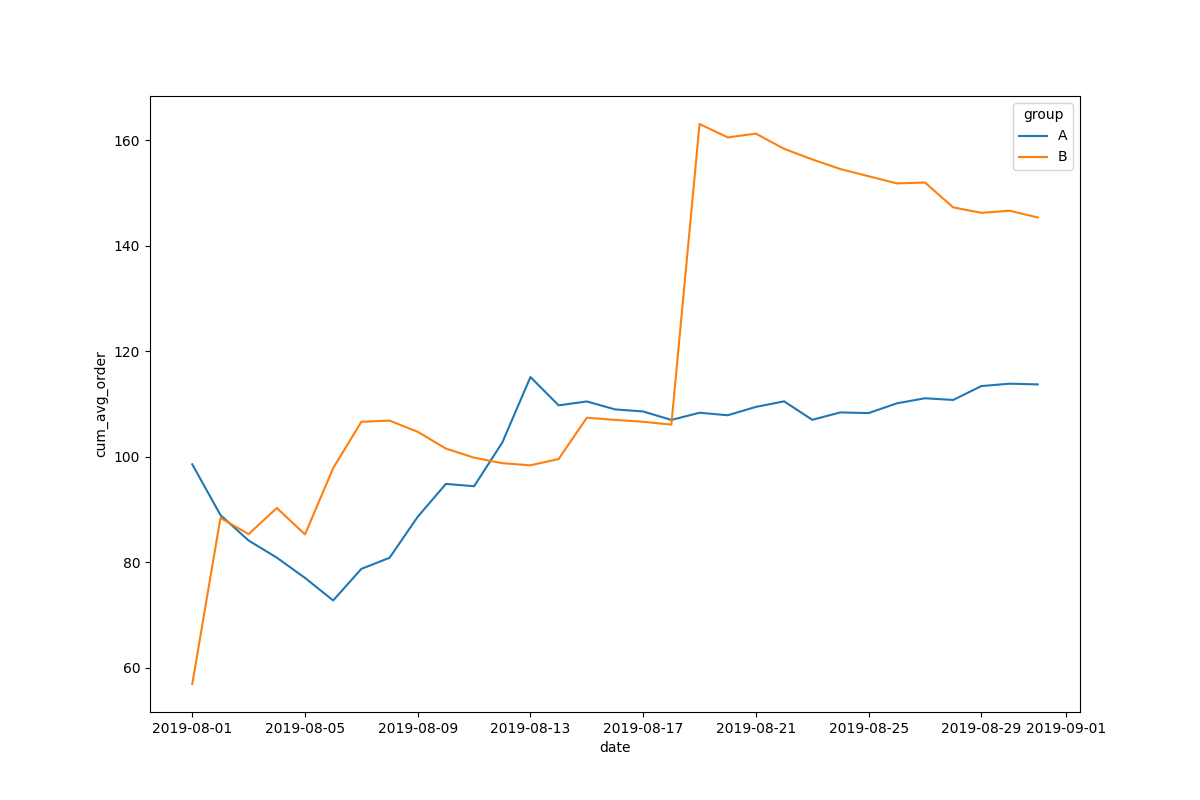
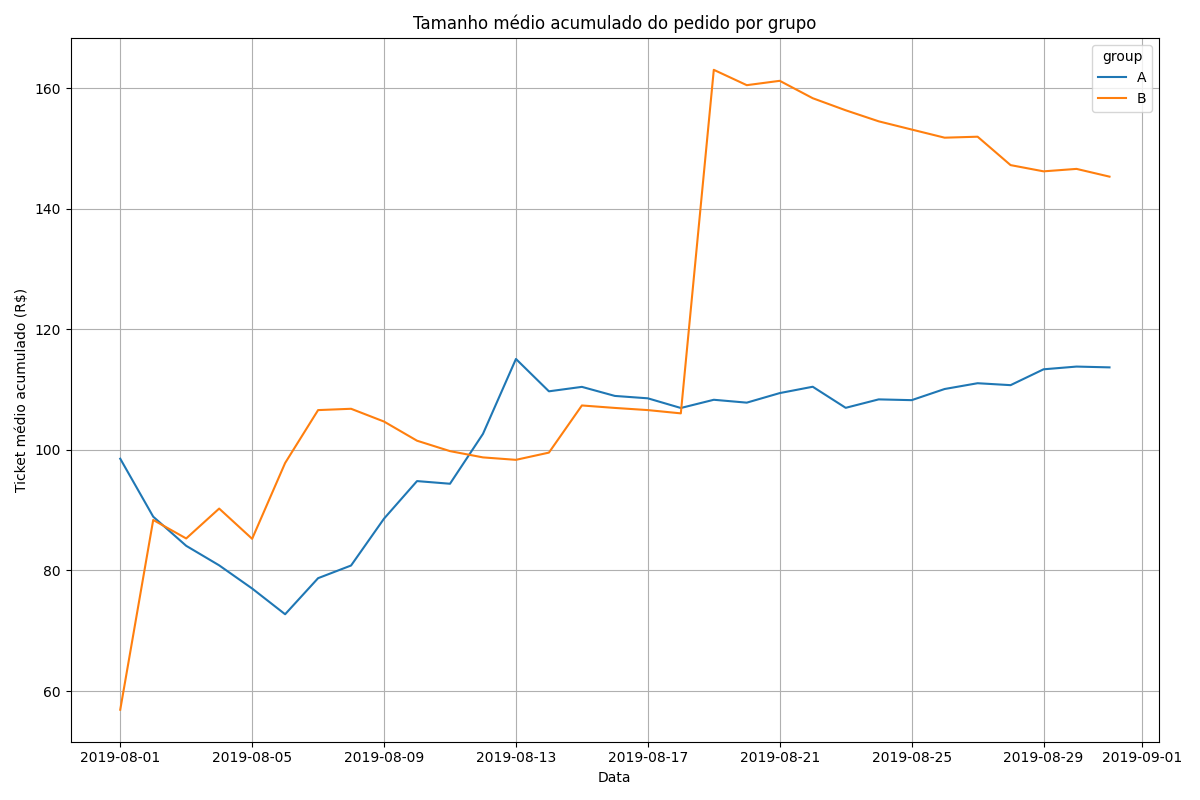
a

diff --git a/projeto9.py b/projeto9.py
@@ -3,6 +3,7 @@
 import pandas as pd
 import matplotlib.pyplot as plt
 import seaborn as sns
+import numpy as np
 
 #ATRIBUIÇÃO DE DATAFRAMES
 
@@ -120,6 +121,11 @@ total_revenue['cumulative'] = total_revenue.groupby('group')['revenue'].cumsum()
 
 plt.figure(figsize=(12, 8))
 sns.lineplot(data=total_revenue, x='date', y='cumulative', hue='group')
+plt.title('Receita acumulada por grupo')
+plt.xlabel('Data')
+plt.ylabel('Receita acumulada (R$)')
+plt.grid(True)
+plt.tight_layout()
 plt.savefig('total_revenue.png')
 plt.close()
 
@@ -134,8 +140,13 @@ orders_mean['cum_orders'] = orders_mean.groupby('group')['orders'].cumsum()
 
 orders_mean['cum_avg_order'] = orders_mean['cum_revenue'] / orders_mean['cum_orders']
 
-plt.figure(figsize=(12,8))
+plt.figure(figsize=(12, 8))
 sns.lineplot(data=orders_mean, x='date', y='cum_avg_order', hue='group')
+plt.title('Tamanho médio acumulado do pedido por grupo')
+plt.xlabel('Data')
+plt.ylabel('Ticket médio acumulado (R$)')
+plt.grid(True)
+plt.tight_layout()
 plt.savefig('orders_mean.png')
 plt.close()
 
@@ -215,3 +226,56 @@ plt.close()
 
 
 #Faça um gráfico da diferença relativa na conversão cumulativa para o grupo B em comparação com o grupo A. Tire conclusões e crie conjecturas.
+
+
+conversion_cum = df_conversion_rate.pivot(index='date', columns='group', values='conversion_rate')
+
+
+conversion_cum['cum_a'] = conversion_cum['A'].cumsum()
+conversion_cum['cum_b'] = conversion_cum['B'].cumsum()
+
+conversion_cum['relative_diff'] = (conversion_cum['cum_b'] - conversion_cum['cum_a']) / conversion_cum['cum_a'] * 100
+
+#print(conversion_cum)
+
+plt.figure(figsize=(12, 8))
+sns.lineplot(data=conversion_cum, x=conversion_cum.index, y='relative_diff')
+
+for date, value in conversion_cum['relative_diff'].items():
+    plt.annotate(f'{value:.1f}%', 
+                xy=(date, value), 
+                xytext=(0, 8), 
+                textcoords='offset points',
+                ha='center',
+                fontsize=7)
+
+plt.axhline(y=0, color='red', linestyle='--')
+plt.title('Diferença relativa na conversão cumulativa (B vs A)')
+plt.xlabel('Data')
+plt.ylabel('Diferença relativa (%)')
+plt.grid(True)
+plt.tight_layout()
+plt.savefig('conversion_cum.png')
+plt.close()
+
+# Ao analisar o gráfico que mostra a diferença relativa na conversão cumulativa entre os grupos, fica claro que o grupo B apresenta uma taxa de conversão consistentemente maior que o grupo A ao longo do tempo. O único período em que o grupo B ficou abaixo foi nos primeiros dias do teste A/B, o que é esperado dado o volume ainda baixo de dados. Essa análise reforça a superioridade do grupo B sem ser influenciada pelos outliers de revenue identificados anteriormente.
+
+
+#Calcule os percentis 95 e 99 para o número de pedidos por usuário. Defina o ponto em que um ponto de dados se torna uma anomalia.
+
+orders_by_user = df_orders.groupby('visitorid')['transactionid'].count().reset_index()
+orders_by_user = orders_by_user.rename(columns={'transactionid': 'orders'})
+p95 = np.percentile(orders_by_user['orders'], 95)
+p99 = np.percentile(orders_by_user['orders'], 99)
+
+#print(f'Percentil 95: {p95}')
+#print(f'Percentil 99: {p99}')
+#print(orders_by_user.sample(50))
+
+#95% dos usuários fizeram somente 1 pedido, enquanto 99% dos usuários fizeram 2 pedidos ou menos, os usuários que realizaram 3 pedidos já entram como anomalia nesse caso.
+
+
+#Faça um gráfico de dispersão dos preços dos pedidos. Tire conclusões e crie conjecturas.
+
+plt.figure(figsize=(12, 8))
+sns.scatterplot(data=df_orders, x='date', y='revenue')
